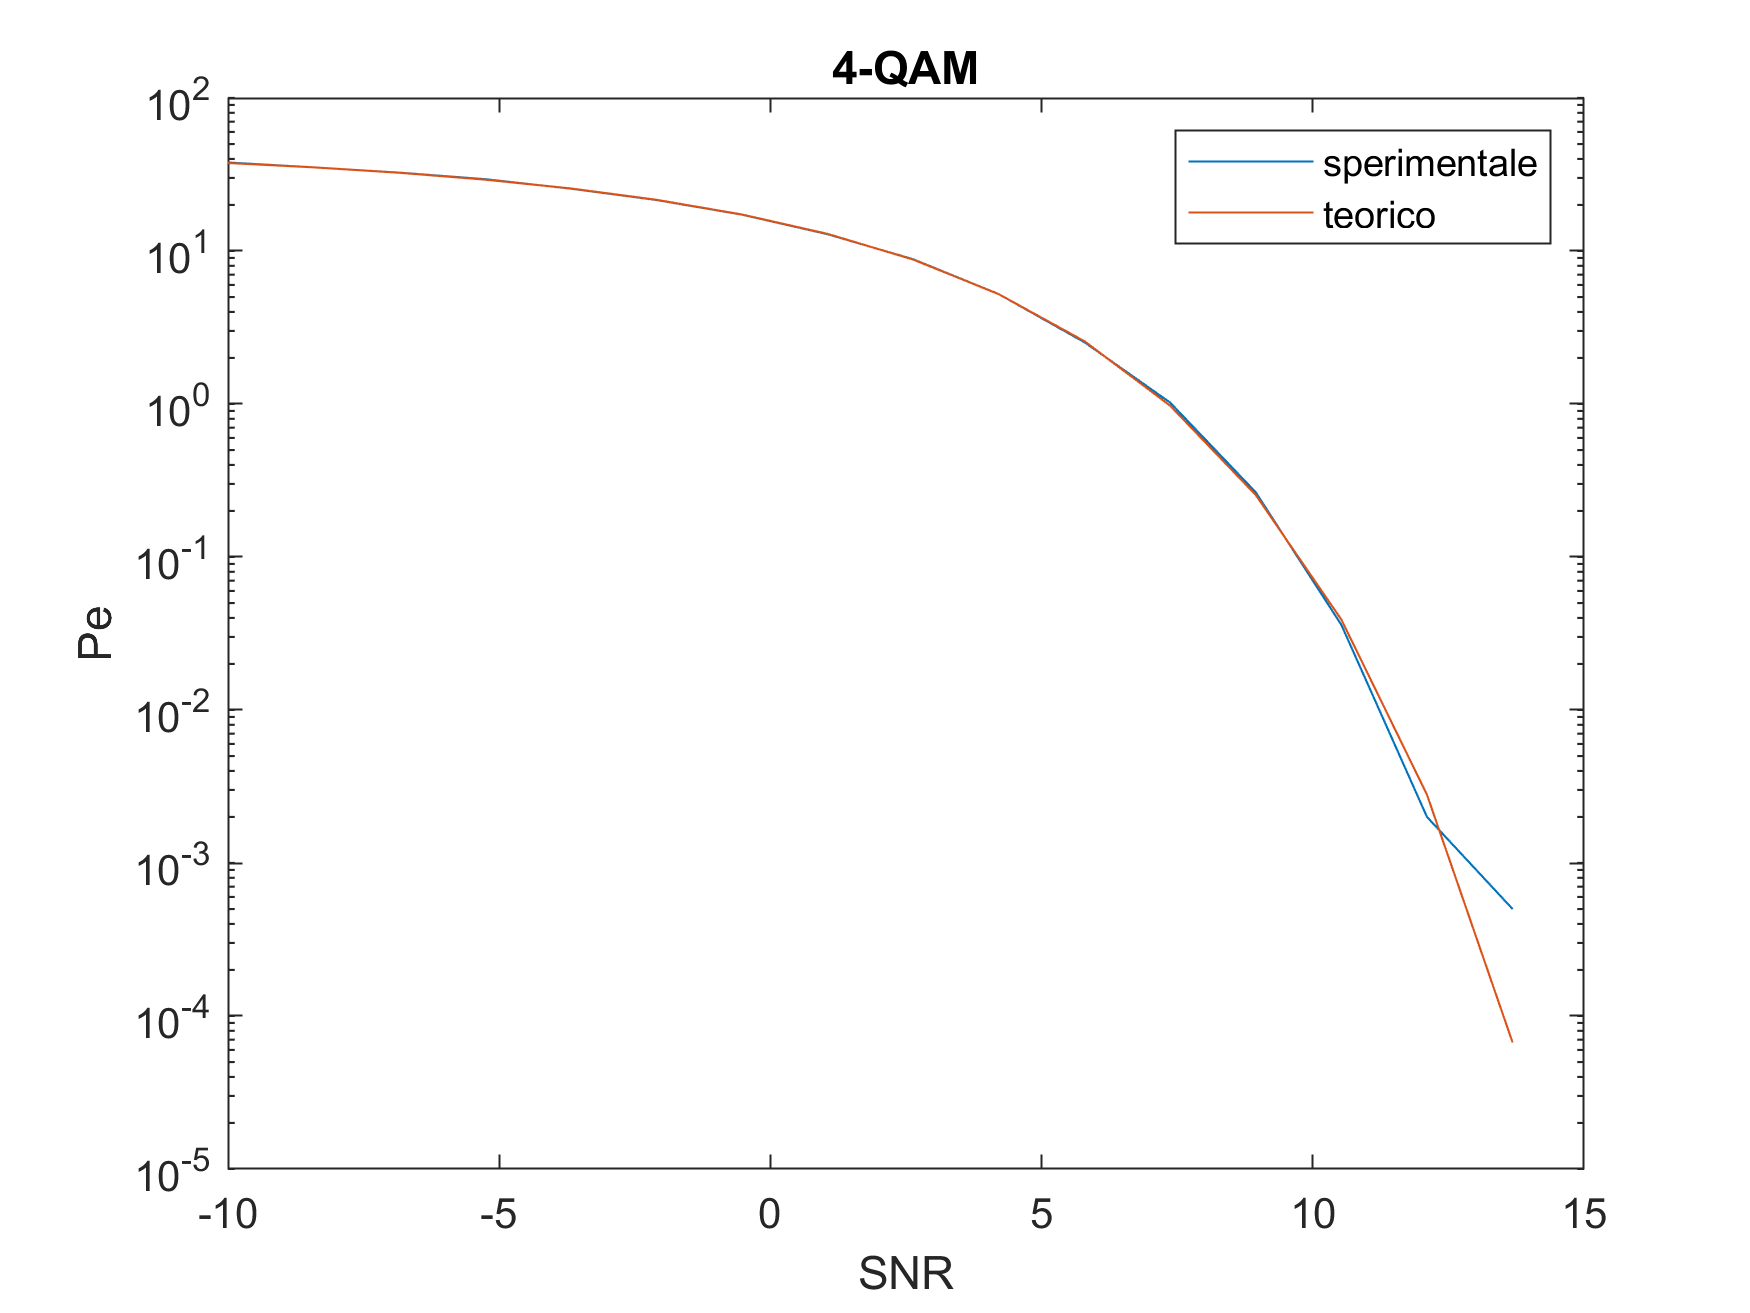
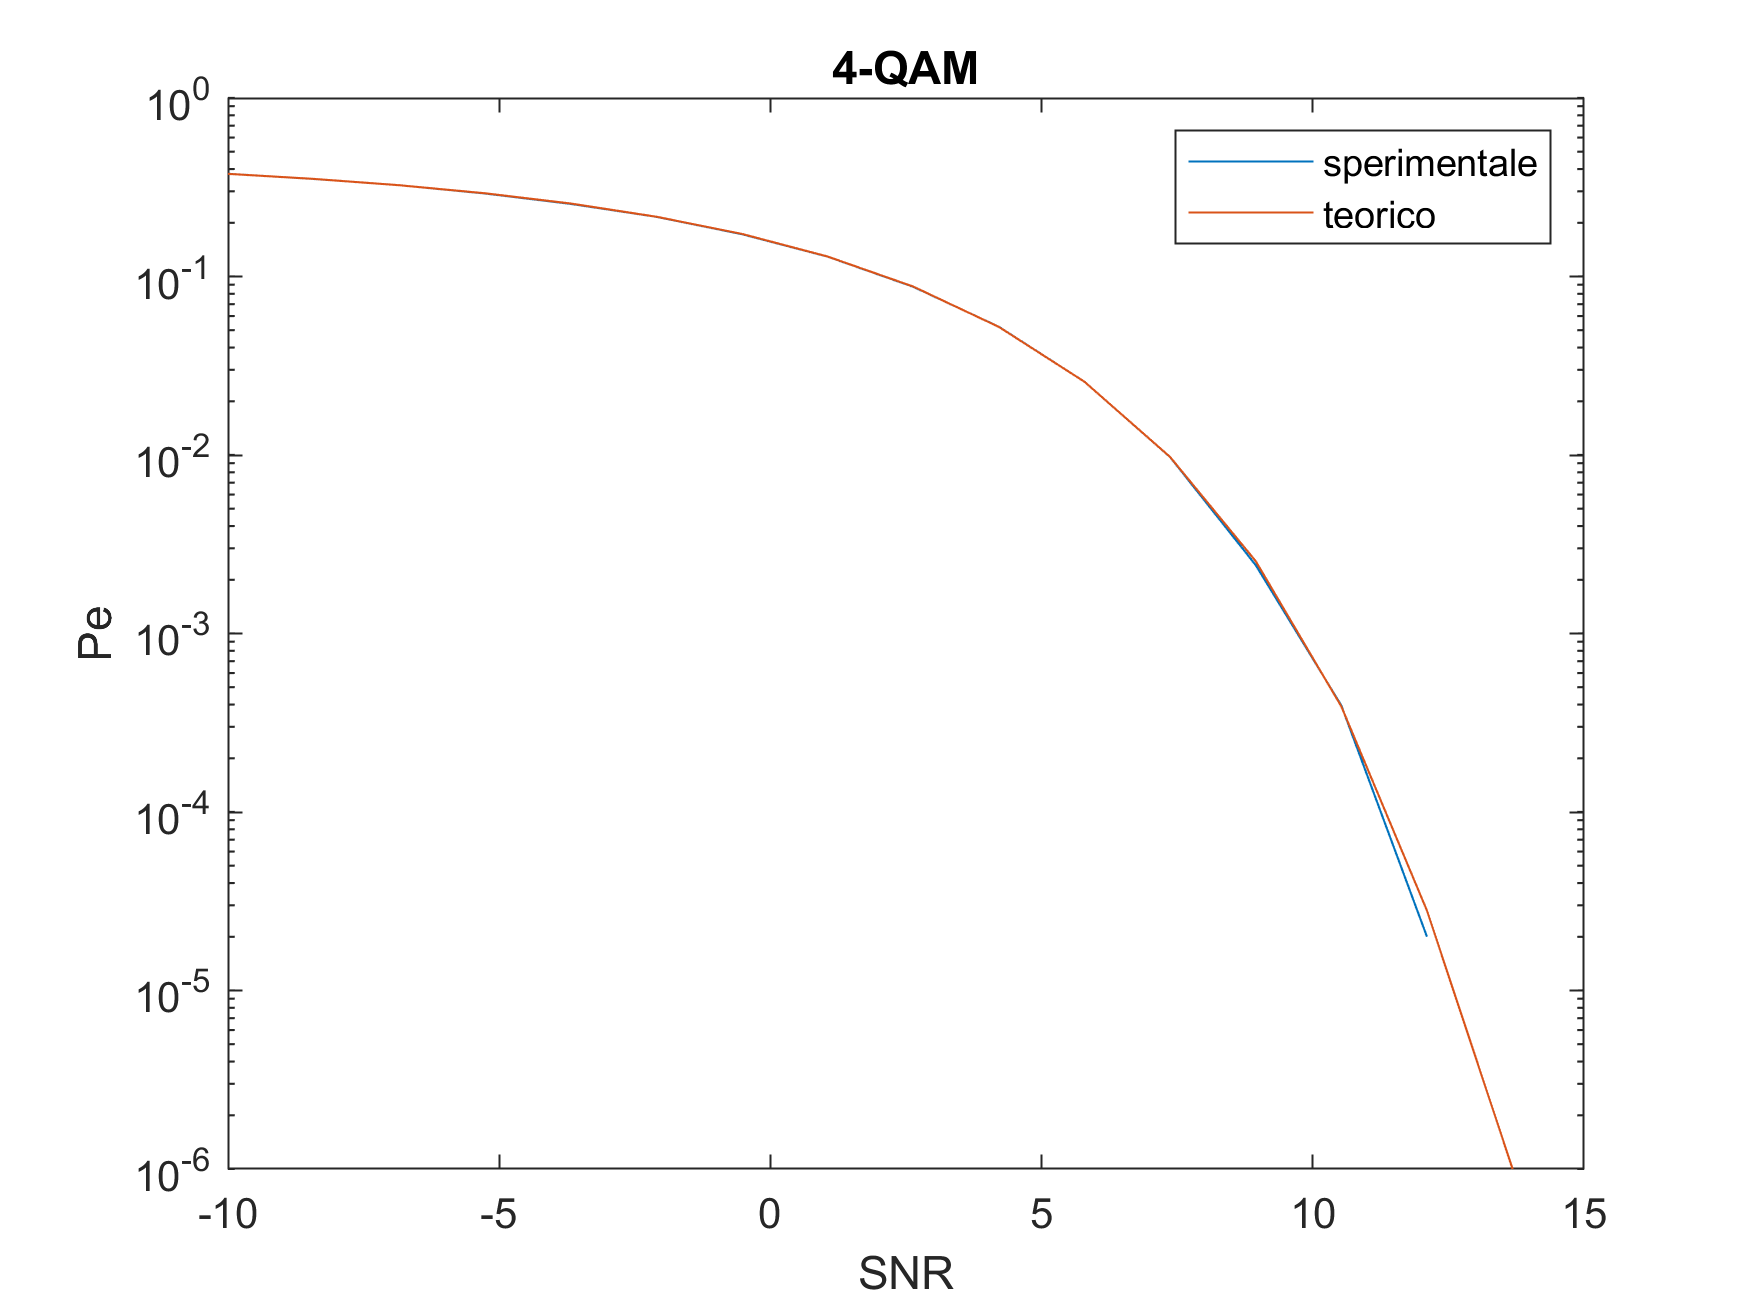
last tweaks

diff --git a/QAM/QAM.m b/QAM/QAM.m
@@ -1,28 +1,28 @@
 sn = [-10.000000, -8.421053, -6.842105, -5.263158, -3.684211, -2.105263, -0.526316, 1.052632, 2.631579, 4.210526, 5.789474, 7.368421, 8.947368, 10.526316, 12.105263, 13.684211, 15.263158, 16.842105, 18.421053, 20.000000, ];
-Ps0 = [37.597500, 35.214250, 32.501417, 29.310583, 25.638833, 21.588333, 17.349000, 12.949083, 8.823333, 5.190667, 2.551083, 0.974333, 0.256500, 0.035333, 0.002917, 0.000167, 0.000000, 0.000000, 0.000000, 0.000000, ];
-Pt0 = [37.591482, 35.224405, 32.459858, 29.268439, 25.645318, 21.629716, 17.329992, 12.948311, 8.788794, 5.221173, 2.573843, 0.975288, 0.254441, 0.038997, 0.002793, 0.000067, 0.000000, 0.000000, 0.000000, 0.000000, ];
-Ps1 = [44.099750, 42.760583, 41.156583, 39.092500, 36.583125, 33.540708, 30.024000, 26.120167, 22.114292, 18.263875, 14.626500, 11.178042, 7.886833, 4.982875, 2.690917, 1.142583, 0.350958, 0.069792, 0.006083, 0.000333, ];
-Pt1 = [33.282641, 32.449256, 31.455033, 30.271690, 28.867964, 27.210820, 25.268016, 23.012891, 20.432458, 17.539930, 14.391991, 11.108378, 7.885378, 4.985755, 2.682381, 1.150056, 0.357589, 0.070396, 0.007215, 0.000290, ];
-Ps2 = [44.829083, 43.958194, 42.936222, 41.862556, 40.683611, 39.138528, 37.296417, 34.901861, 31.922806, 28.424778, 24.733083, 20.990778, 17.472444, 14.203111, 11.303417, 8.530250, 5.990972, 3.762611, 2.001222, 0.854944, ];
-Pt2 = [27.562045, 27.242826, 26.860455, 26.402690, 25.855104, 25.200824, 24.420351, 23.491555, 22.390019, 21.090015, 19.566588, 17.799376, 15.779077, 13.517386, 11.060601, 8.504817, 6.005868, 3.770020, 2.007862, 0.848643, ];
+Ps0 = [0.376210, 0.351965, 0.324680, 0.291790, 0.255170, 0.216040, 0.172650, 0.129265, 0.087610, 0.052315, 0.025745, 0.009740, 0.002415, 0.000395, 0.000020, 0.000000, 0.000000, 0.000000, 0.000000, 0.000000, ];
+Pt0 = [0.375915, 0.352244, 0.324599, 0.292684, 0.256453, 0.216297, 0.173300, 0.129483, 0.087888, 0.052212, 0.025738, 0.009753, 0.002544, 0.000390, 0.000028, 0.000001, 0.000000, 0.000000, 0.000000, 0.000000, ];
+Ps1 = [0.441220, 0.427202, 0.412150, 0.392462, 0.365438, 0.335045, 0.301553, 0.262230, 0.221807, 0.183115, 0.146665, 0.112183, 0.078982, 0.050158, 0.026985, 0.011848, 0.003705, 0.000730, 0.000060, 0.000005, ];
+Pt1 = [0.332826, 0.324493, 0.314550, 0.302717, 0.288680, 0.272108, 0.252680, 0.230129, 0.204325, 0.175399, 0.143920, 0.111084, 0.078854, 0.049858, 0.026824, 0.011501, 0.003576, 0.000704, 0.000072, 0.000003, ];
+Ps2 = [0.448645, 0.440488, 0.430483, 0.418932, 0.406393, 0.390775, 0.372400, 0.349358, 0.319518, 0.284478, 0.247310, 0.210292, 0.174702, 0.142442, 0.112923, 0.085707, 0.059565, 0.037500, 0.019747, 0.008472, ];
+Pt2 = [0.275620, 0.272428, 0.268605, 0.264027, 0.258551, 0.252008, 0.244204, 0.234916, 0.223900, 0.210900, 0.195666, 0.177994, 0.157791, 0.135174, 0.110606, 0.085048, 0.060059, 0.037700, 0.020079, 0.008486, ];
 figure;
  semilogy(sn, Ps0);
 hold on;
-plot(sn,Pt0);
+semilogy(sn,Pt0);
 hold off;
 title('4-QAM');legend('sperimentale','teorico');xlabel('SNR');ylabel('Pe');
-%print(gcf, '4QAM', '-dpng', '-r300');
+print(gcf, '4QAM', '-dpng', '-r300');
 figure;
  semilogy(sn, Ps1);
 hold on;
-plot(sn,Pt1);
+semilogy(sn,Pt1);
 hold off;
 title('16-QAM');legend('sperimentale','teorico');xlabel('SNR');ylabel('Pe');
-%print(gcf, '16QAM', '-dpng', '-r300');
+print(gcf, '16QAM', '-dpng', '-r300');
 figure;
  semilogy(sn, Ps2);
 hold on;
-plot(sn,Pt2);
+semilogy(sn,Pt2);
 hold off;
 title('64-QAM');legend('sperimentale','teorico');xlabel('SNR');ylabel('Pe');
-%print(gcf, '64QAM', '-dpng', '-r300');
+print(gcf, '64QAM', '-dpng', '-r300');

diff --git a/QAM/main.c b/QAM/main.c
@@ -189,7 +189,7 @@ double SNR=0.0;
 ////////////////////////////////////////////////////////////////////////////////////
 
 ////////////////////////////////////////////////////////////////////////////////////
-int debug =1;
+int debug =0;
 char go = 0;
 int nl=3;
 int firstl=0;
@@ -256,7 +256,7 @@ int main(){
 */
     	for (int np = 0; np < nPoints; np++){	//varia SNR
 
-		    sigma = (double)sqrt( 2*(M-1)/(3.0* pow(10.0,SNRARRAY[np]/10.0) ))/sqrt(2);
+		    sigma = (double)sqrt( 2*(M-1)/(3.0* pow(10.0,SNRARRAY[np]/10.0) ))/(sqrt(2));
 
 			printf("\nRun:%d/%d",np+1,nPoints );
 		    printf(" -Noise sigma:%.3lf",sigma);
@@ -319,8 +319,9 @@ int main(){
 		        free(Yn);
 		        free(Z);
 		        free(received);
-		        PeSp[np + nPoints*currentL] = 100.0*(double)Errors / (N*n);
-		        PeTh[np + nPoints*currentL] = 100.0*(L-1)*erfc( sqrt(3*pow(10.0,SNRARRAY[np]/10.0)/ (2*(M-1)) ) )/(L*l);
+		        PeSp[np + nPoints*currentL] = (double)Errors / (N*n);
+		        //PeTh[np + nPoints*currentL] = (L-1)*erfc( sqrt(3*pow(10.0,SNRARRAY[np]/10.0)/ (2*(M-1)) ) )/(L*l);
+		        PeTh[np + nPoints*currentL] = (L-1)*erfc( sqrt(3*pow(10.0,SNRARRAY[np]/10.0)/ (2*(M-1)) ) )/(L*l);
 
 
 		    }
@@ -358,16 +359,16 @@ int main(){
                 }
                 fprintf(f, "];");
             }
-            fprintf(f, "\nfigure;\n semilogy(sn, Ps0);\nhold on;\nplot(sn,Pt0);\nhold off;\n");
-            fprintf(f, "title('4-QAM');legend('sperimentale','teorico');xlabel('SNR');ylabel('Pe%');");
+            fprintf(f, "\nfigure;\n semilogy(sn, Ps0);\nhold on;\nsemilogy(sn,Pt0);\nhold off;\n");
+            fprintf(f, "title('4-QAM');legend('sperimentale','teorico');xlabel('SNR');ylabel('Pe');");
             fprintf(f, "\n%%print(gcf, '4QAM', '-dpng', '-r300');");
 
-            fprintf(f, "\nfigure;\n semilogy(sn, Ps1);\nhold on;\nplot(sn,Pt1);\nhold off;\n");
-            fprintf(f, "title('16-QAM');legend('sperimentale','teorico');xlabel('SNR');ylabel('Pe%');");
+            fprintf(f, "\nfigure;\n semilogy(sn, Ps1);\nhold on;\nsemilogy(sn,Pt1);\nhold off;\n");
+            fprintf(f, "title('16-QAM');legend('sperimentale','teorico');xlabel('SNR');ylabel('Pe');");
             fprintf(f, "\n%%print(gcf, '16QAM', '-dpng', '-r300');");
 
-            fprintf(f, "\nfigure;\n semilogy(sn, Ps2);\nhold on;\nplot(sn,Pt2);\nhold off;\n");
-            fprintf(f, "title('64-QAM');legend('sperimentale','teorico');xlabel('SNR');ylabel('Pe%');");
+            fprintf(f, "\nfigure;\n semilogy(sn, Ps2);\nhold on;\nsemilogy(sn,Pt2);\nhold off;\n");
+            fprintf(f, "title('64-QAM');legend('sperimentale','teorico');xlabel('SNR');ylabel('Pe');");
             fprintf(f, "\n%%print(gcf, '64QAM', '-dpng', '-r300');");
 
         }

diff --git a/QAM/test.m b/QAM/test.m
@@ -2,18 +2,10 @@ close all
 clear
 clc
  
-
-M=16;
+M=64;
 L=sqrt(M);
  
 
-SNR = 2*log2(L)*(10.^((0:1:15)/10));
-SNRdB = 10*log10(SNR);
-semilogy(SNRdB,(1/log2(L))*((L-1)/L).*erfc(sqrt((3.*SNR)./(2*(L^2-1)))));
- 
-
-EbNo = (1/(2*log2(L)))*SNR;
- 
-
-figure
-semilogy(10*log10(EbNo),(1/log2(L))*((L-1)/L).*erfc(sqrt(EbNo*3*log2(L)/(L^2-1))));
+SNRdB = -10:20;
+SNR = 10.^(SNRdB/10);
+semilogy(SNRdB,(1/log2(L))*((L-1)/L).*erfc(sqrt((3.*SNR)./(2*(L^2-1)))));ogy(10*log10(EbNo),(1/log2(L))*((L-1)/L).*erfc(sqrt(EbNo*3*log2(L)/(L^2-1))));
